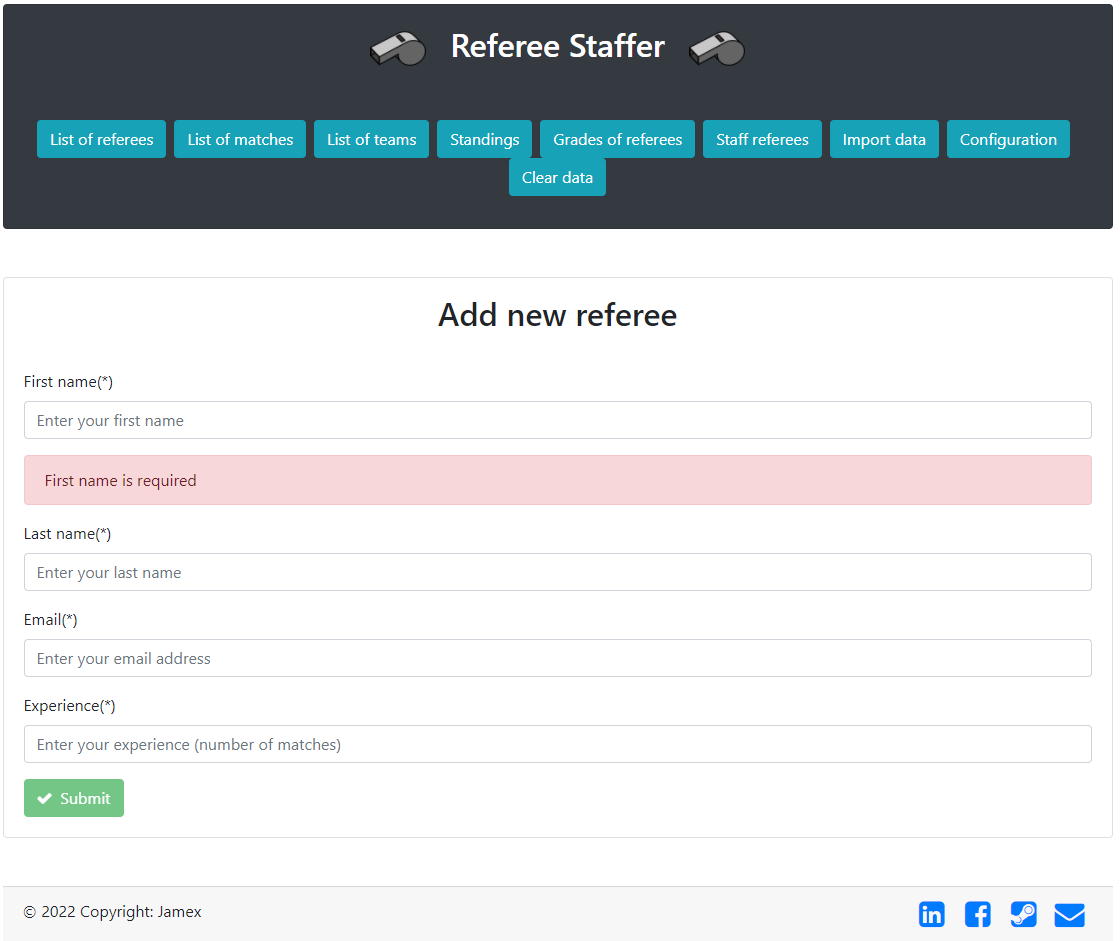
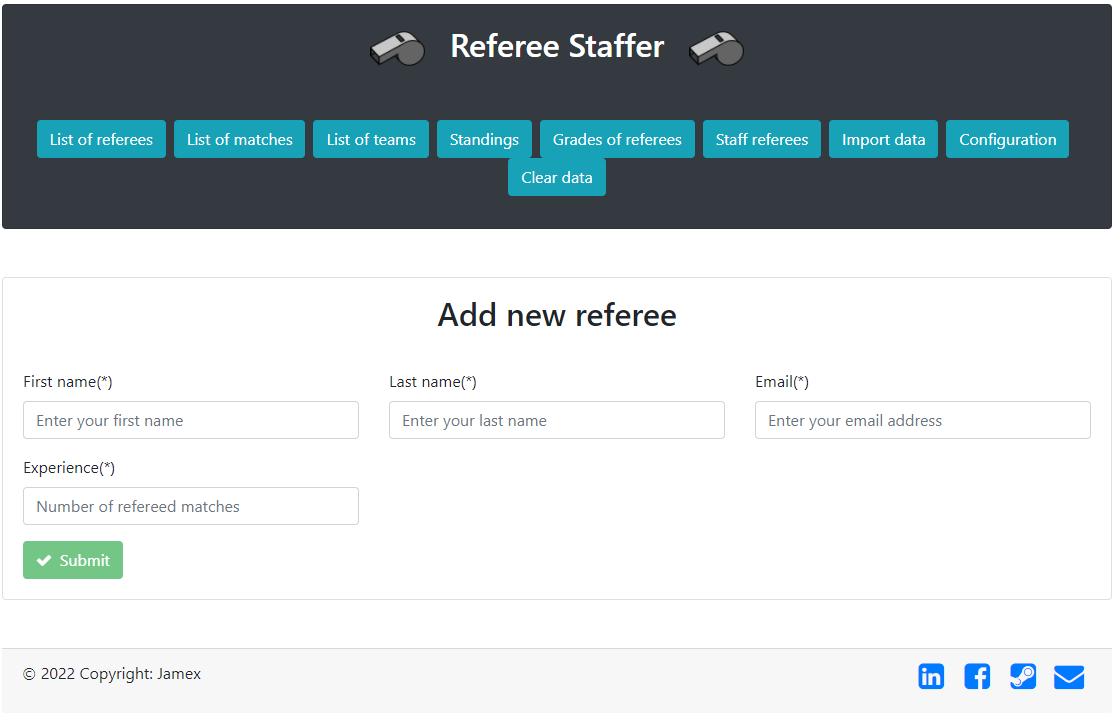
Refactored form of adding/editing match, team or referee

diff --git a/src/main/webapp/src/app/component/match-form/match-form.component.html b/src/main/webapp/src/app/component/match-form/match-form.component.html
@@ -3,73 +3,81 @@
   <h2 *ngIf="editMode" class="text-center my-3">Edit match</h2>
   <div class="card-body">
     <form (ngSubmit)="onSubmit()" #matchForm="ngForm">
-      <div class="form-group">
-        <label for="queue">Queue(*)</label>
-        <input type="number" [(ngModel)]="match.queue"
-               min="0"
-               class="form-control"
-               id="queue"
-               name="queue"
-               placeholder="Enter queue"
-               required #queue="ngModel">
+        <div class="form-group row col-4">
+          <label for="queue" class="col-form-label">Queue(*)</label>
+          <div class="col-8">
+            <input type="number" [(ngModel)]="match.queue"
+                   min="0"
+                   class="form-control"
+                   id="queue"
+                   name="queue"
+                   placeholder="Enter queue"
+                   required #queue="ngModel">
+            <div [hidden]="queue.valid || queue.untouched" class="alert alert-danger">Queue is required</div>
+          </div>
+        </div>
+      <div class="row">
+        <div class="form-group col-4">
+          <label for="homeTeam">Home team(*)</label>
+          <select class="custom-select" id="homeTeam" name="homeTeam" [(ngModel)]="match.homeTeamId" required
+                  #homeTeam="ngModel">
+            <option hidden value="undefined" selected>Choose home team</option>
+            <option *ngFor="let team of teams | excludeValue: match.awayTeamId"
+                    [ngValue]="team.id">{{team.name}} {{team.city}}</option>
+          </select>
+          <div [hidden]="homeTeam.valid || homeTeam.untouched" class="alert alert-danger">Home team is required</div>
+        </div>
+        <div class="form-group col-4">
+          <label for="awayTeam">Away team(*)</label>
+          <select class="custom-select" id="awayTeam" name="awayTeam" [(ngModel)]="match.awayTeamId" required
+                  #awayTeam="ngModel">
+            <option hidden value="undefined" selected>Choose away team</option>
+            <option *ngFor="let team of teams | excludeValue: match.homeTeamId"
+                    [ngValue]="team.id">{{team.name}} {{team.city}}</option>
+          </select>
+          <div [hidden]="awayTeam.valid || awayTeam.untouched" class="alert alert-danger">Away team is required</div>
+        </div>
       </div>
-      <div [hidden]="queue.valid || queue.untouched" class="alert alert-danger">Queue is required</div>
-      <div class="form-group">
-        <label for="homeTeam">Home team(*)</label>
-        <select class="custom-select" id="homeTeam" name="homeTeam" [(ngModel)]="match.homeTeamId" required
-                #homeTeam="ngModel">
-          <option hidden value="undefined" selected>Choose home team</option>
-          <option *ngFor="let team of teams | excludeValue: match.awayTeamId"
-                  [ngValue]="team.id">{{team.name}} {{team.city}}</option>
-        </select>
+      <div class="form-group row col-6">
+        <label for="referee" class="col-form-label">Referee</label>
+        <div class="col-8">
+          <select class="custom-select" id="referee" name="referee" [(ngModel)]="match.refereeId">
+            <option hidden [ngValue]="null" selected>Choose referee</option>
+            <option [ngValue]="undefined" selected>Choose referee</option>
+            <option *ngFor="let referee of referees"
+                    [ngValue]="referee.id">{{referee.firstName}} {{referee.lastName}}</option>
+          </select>
+        </div>
       </div>
-      <div [hidden]="homeTeam.valid || homeTeam.untouched" class="alert alert-danger">Home team is required</div>
-      <div class="form-group">
-        <label for="awayTeam">Away team(*)</label>
-        <select class="custom-select" id="awayTeam" name="awayTeam" [(ngModel)]="match.awayTeamId" required
-                #awayTeam="ngModel">
-          <option hidden value="undefined" selected>Choose away team</option>
-          <option *ngFor="let team of teams | excludeValue: match.homeTeamId"
-                  [ngValue]="team.id">{{team.name}} {{team.city}}</option>
-        </select>
-      </div>
-      <div [hidden]="awayTeam.valid || awayTeam.untouched" class="alert alert-danger">Away team is required</div>
-      <div class="form-group">
-        <label for="referee">Referee</label>
-        <select class="custom-select" id="referee" name="referee" [(ngModel)]="match.refereeId">
-          <option hidden [ngValue]="null" selected>Choose referee</option>
-          <option [ngValue]="undefined" selected>Choose referee</option>
-          <option *ngFor="let referee of referees"
-                  [ngValue]="referee.id">{{referee.firstName}} {{referee.lastName}}</option>
-        </select>
-      </div>
-      <div class="form-group">
-        <label for="homeScore">Home team score</label>
-        <input type="number" [(ngModel)]="match.homeScore"
-               min="0"
-               class="form-control"
-               id="homeScore"
-               name="homeScore"
-               placeholder="Enter home team score">
-      </div>
-      <div class="form-group">
-        <label for="awayScore">Away team score</label>
-        <input type="number" [(ngModel)]="match.awayScore"
-               min="0"
-               class="form-control"
-               id="awayScore"
-               name="awayScore"
-               placeholder="Enter away team score">
-      </div>
-      <div class="form-group">
-        <label for="grade">Referee grade</label>
-        <input type="number" [(ngModel)]="grade.value"
-               step="0.1"
-               min="0"
-               class="form-control"
-               id="grade"
-               name="grade"
-               placeholder="Referee grade">
+      <div class="row">
+        <div class="form-group col-4">
+          <label for="homeScore">Home team score</label>
+          <input type="number" [(ngModel)]="match.homeScore"
+                 min="0"
+                 class="form-control"
+                 id="homeScore"
+                 name="homeScore"
+                 placeholder="Enter home team score">
+        </div>
+        <div class="form-group col-4">
+          <label for="awayScore">Away team score</label>
+          <input type="number" [(ngModel)]="match.awayScore"
+                 min="0"
+                 class="form-control"
+                 id="awayScore"
+                 name="awayScore"
+                 placeholder="Enter away team score">
+        </div>
+        <div class="form-group col-4">
+          <label for="grade">Referee grade</label>
+          <input type="number" [(ngModel)]="grade.value"
+                 step="0.1"
+                 min="0"
+                 class="form-control"
+                 id="grade"
+                 name="grade"
+                 placeholder="Referee grade">
+        </div>
       </div>
       <button type="submit" [disabled]="!matchForm.form.valid" class="btn btn-success">
         <em class="fa fa-check mr-2"></em>Submit

diff --git a/src/main/webapp/src/app/component/referee-form/referee-form.component.html b/src/main/webapp/src/app/component/referee-form/referee-form.component.html
@@ -3,47 +3,52 @@
   <h2 *ngIf="editMode" class="text-center my-3">Edit referee</h2>
   <div class="card-body">
     <form (ngSubmit)="onSubmit()" #refereeForm="ngForm">
-      <div class="form-group">
-        <label for="firstName">First name(*)</label>
-        <input type="text" [(ngModel)]="referee.firstName"
-               class="form-control"
-               id="firstName"
-               name="firstName"
-               placeholder="Enter your first name"
-               required #firstName="ngModel">
+      <div class="row">
+        <div class="form-group col-4">
+          <label for="firstName">First name(*)</label>
+          <input type="text" [(ngModel)]="referee.firstName"
+                 class="form-control"
+                 id="firstName"
+                 name="firstName"
+                 placeholder="Enter your first name"
+                 required #firstName="ngModel">
+          <div [hidden]="firstName.valid || firstName.untouched" class="alert alert-danger">First name is required</div>
+        </div>
+        <div class="form-group col-4">
+          <label for="lastName">Last name(*)</label>
+          <input type="text" [(ngModel)]="referee.lastName"
+                 class="form-control"
+                 id="lastName"
+                 name="lastName"
+                 placeholder="Enter your last name"
+                 required #lastName="ngModel">
+          <div [hidden]="lastName.valid || lastName.untouched" class="alert alert-danger">Last name is required</div>
+        </div>
+        <div class="form-group col-4">
+          <label for="email">Email(*)</label>
+          <input type="email" [(ngModel)]="referee.email" email
+                 class="form-control"
+                 id="email"
+                 name="email"
+                 placeholder="Enter your email address"
+                 required #email="ngModel">
+          <div [hidden]="email.valid || email.untouched" class="alert alert-danger">Email is required</div>
+        </div>
       </div>
-      <div [hidden]="firstName.valid || firstName.untouched" class="alert alert-danger">First name is required</div>
-      <div class="form-group">
-        <label for="lastName">Last name(*)</label>
-        <input type="text" [(ngModel)]="referee.lastName"
-               class="form-control"
-               id="lastName"
-               name="lastName"
-               placeholder="Enter your last name"
-               required #lastName="ngModel">
+      <div class="row">
+        <div class="form-group col-4">
+          <label for="experience">Experience(*)</label>
+          <input type="number" [(ngModel)]="referee.experience"
+                 min="0"
+                 class="form-control"
+                 id="experience"
+                 name="experience"
+                 placeholder="Number of refereed matches"
+                 required #experience="ngModel">
+          <div [hidden]="experience.valid || experience.untouched" class="alert alert-danger">Experience is required
+          </div>
+        </div>
       </div>
-      <div [hidden]="lastName.valid || lastName.untouched" class="alert alert-danger">Last name is required</div>
-      <div class="form-group">
-        <label for="email">Email(*)</label>
-        <input type="email" [(ngModel)]="referee.email" email
-               class="form-control"
-               id="email"
-               name="email"
-               placeholder="Enter your email address"
-               required #email="ngModel">
-      </div>
-      <div [hidden]="email.valid || email.untouched" class="alert alert-danger">Email is required</div>
-      <div class="form-group">
-        <label for="experience">Experience(*)</label>
-        <input type="number" [(ngModel)]="referee.experience"
-               min="0"
-               class="form-control"
-               id="experience"
-               name="experience"
-               placeholder="Enter your experience (number of matches)"
-               required #experience="ngModel">
-      </div>
-      <div [hidden]="experience.valid || experience.untouched" class="alert alert-danger">Experience is required</div>
       <button type="submit" [disabled]="!refereeForm.form.valid" class="btn btn-success">
         <em class="fa fa-check mr-2"></em>Submit
       </button>

diff --git a/src/main/webapp/src/app/component/team-form/team-form.component.html b/src/main/webapp/src/app/component/team-form/team-form.component.html
@@ -3,26 +3,28 @@
   <h2 *ngIf="editMode" class="text-center my-3">Edit team</h2>
   <div class="card-body">
     <form (ngSubmit)="onSubmit()" #teamForm="ngForm">
-      <div class="form-group">
-        <label for="name">Name(*)</label>
-        <input type="text" [(ngModel)]="team.name"
-               class="form-control"
-               id="name"
-               name="name"
-               placeholder="Enter name of team"
-               required #name="ngModel">
+      <div class="row">
+        <div class="form-group col-4">
+          <label for="name">Name(*)</label>
+          <input type="text" [(ngModel)]="team.name"
+                 class="form-control"
+                 id="name"
+                 name="name"
+                 placeholder="Enter name of team"
+                 required #name="ngModel">
+          <div [hidden]="name.valid || name.untouched" class="alert alert-danger">Name of team is required</div>
+        </div>
+        <div class="form-group col-4">
+          <label for="city">City(*)</label>
+          <input type="text" [(ngModel)]="team.city"
+                 class="form-control"
+                 id="city"
+                 name="city"
+                 placeholder="Enter city of team"
+                 required #city="ngModel">
+          <div [hidden]="city.valid || city.untouched" class="alert alert-danger">City of team is required</div>
+        </div>
       </div>
-      <div [hidden]="name.valid || name.untouched" class="alert alert-danger">Name of team is required</div>
-      <div class="form-group">
-        <label for="city">City(*)</label>
-        <input type="text" [(ngModel)]="team.city"
-               class="form-control"
-               id="city"
-               name="city"
-               placeholder="Enter city of team"
-               required #city="ngModel">
-      </div>
-      <div [hidden]="city.valid || city.untouched" class="alert alert-danger">City of team is required</div>
       <button type="submit" [disabled]="!teamForm.form.valid" class="btn btn-success">
         <em class="fa fa-check mr-2"></em>Submit
       </button>
